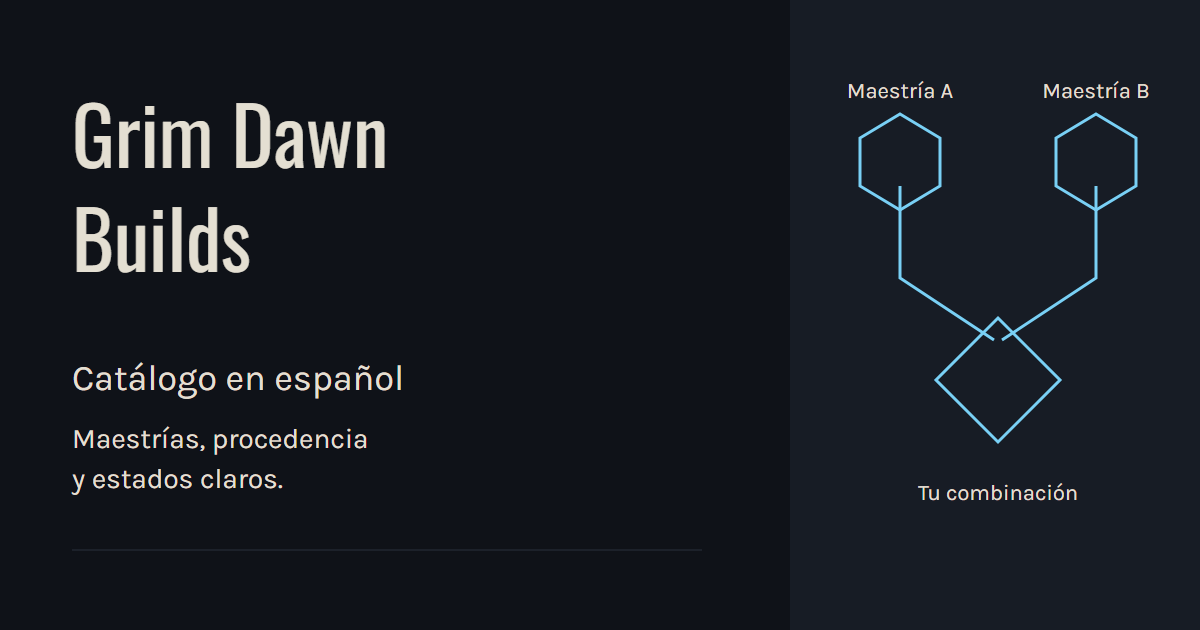
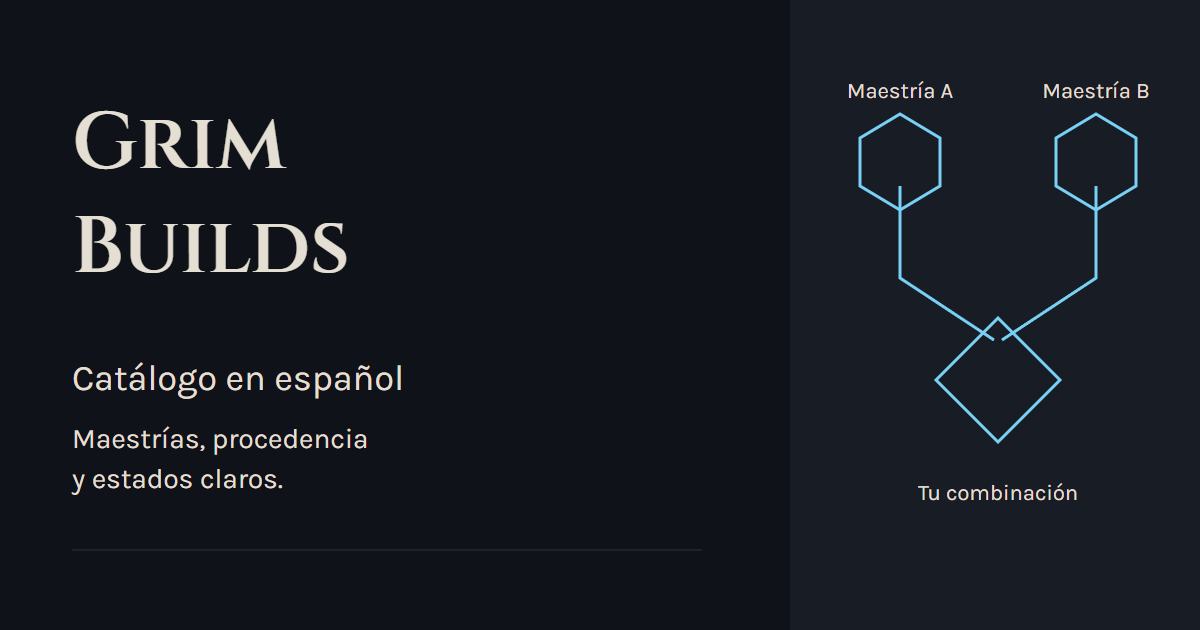
feat(web): rename the public brand to Grim Builds and state non-affiliation for spec 005 (T015)

Changed region(s): [[0.0617, 0.1508, 0.3392, 0.2714], [0.0617, 0.3317, 0.3083, 0.4524]]

diff --git a/apps/web/src/app/core/seo/seo.service.spec.ts b/apps/web/src/app/core/seo/seo.service.spec.ts
@@ -31,7 +31,7 @@ describe('SeoService', () => {
       path: '/tier-list?m=chaman#filters',
       structuredData: [webSite()],
     });
-    expect(doc.title).toBe('Catálogo · Grim Dawn Builds');
+    expect(doc.title).toBe('Catálogo · Grim Builds');
     expect(doc.querySelector('meta[name="description"]')?.getAttribute('content')).toBe(
       'Combinaciones con procedencia.',
     );
@@ -70,9 +70,9 @@ describe('SeoService', () => {
     expect(doc.querySelector('meta[name="twitter:card"]')?.getAttribute('content')).toBe(
       'summary_large_image',
     );
-    service.setPage({ title: 'Grim Dawn Builds', description: 'Portada.', path: '/' });
-    service.setPage({ title: 'Grim Dawn Builds', description: 'Portada.', path: '/' });
-    expect(doc.title).toBe('Grim Dawn Builds');
+    service.setPage({ title: 'Grim Builds', description: 'Portada.', path: '/' });
+    service.setPage({ title: 'Grim Builds', description: 'Portada.', path: '/' });
+    expect(doc.title).toBe('Grim Builds');
     expect(doc.querySelectorAll('meta[name="description"]')).toHaveLength(1);
     expect(doc.querySelectorAll('link[rel="canonical"]')).toHaveLength(1);
     expect(doc.querySelector('meta[property="og:type"]')?.getAttribute('content')).toBe('website');
@@ -90,7 +90,7 @@ describe('SeoService', () => {
       '630',
     );
     expect(doc.querySelector('meta[property="og:image:alt"]')?.getAttribute('content')).toContain(
-      'Grim Dawn Builds',
+      'Grim Builds',
     );
     expect(doc.querySelectorAll('meta[property="og:image"]')).toHaveLength(1);
     expect(doc.querySelector('meta[name="twitter:image"]')?.getAttribute('content')).toBe(
@@ -136,7 +136,7 @@ describe('SeoService', () => {
           structuredData: [record],
         }),
       ).toThrow();
-      expect(doc.title).toBe('Original · Grim Dawn Builds');
+      expect(doc.title).toBe('Original · Grim Builds');
     }
     const circular = webSite();
     circular['self'] = circular;
@@ -150,7 +150,7 @@ describe('SeoService', () => {
         }),
       ).toThrow(/estructurados/);
     }
-    expect(doc.title).toBe('Original · Grim Dawn Builds');
+    expect(doc.title).toBe('Original · Grim Builds');
   });
 
   it('does not create metadata from blank content or an external canonical route', () => {

diff --git a/apps/web/src/app/shared/ui/layout/site-layout.html b/apps/web/src/app/shared/ui/layout/site-layout.html
@@ -2,7 +2,7 @@
 
 <header class="site-header">
   <div class="page-width header-inner">
-    <a class="brand" routerLink="/" i18n="@@layout.brand">Grim Dawn <span>Builds</span></a>
+    <a class="brand" routerLink="/" i18n="@@layout.brand">Grim <span>Builds</span></a>
     <details>
       <summary i18n="@@layout.menu">Menu</summary>
       <nav aria-label="Main navigation" i18n-aria-label="@@layout.primaryNav">
@@ -48,7 +48,9 @@
 
 <footer class="site-footer">
   <div class="page-width footer-inner">
-    <p i18n="@@layout.independent">Independent project. Not affiliated with Crate Entertainment.</p>
+    <p i18n="@@layout.independent">
+      Independent project. Not affiliated with or endorsed by Crate Entertainment or Grim Dawn.
+    </p>
     <nav aria-label="Editorial and legal information" i18n-aria-label="@@layout.legalNav">
       <a routerLink="/acerca" i18n="@@layout.editorial">Editorial criteria</a>
       <a routerLink="/legal" i18n="@@layout.legal">Legal notice</a>

diff --git a/apps/web/src/app/shared/ui/layout/site-layout.spec.ts b/apps/web/src/app/shared/ui/layout/site-layout.spec.ts
@@ -43,8 +43,13 @@ describe('SiteLayout', () => {
     const fixture = TestBed.createComponent(HostFixture);
     await fixture.whenStable();
     const root: HTMLElement = fixture.nativeElement;
-    expect(root.querySelector('footer')?.textContent).toContain(
-      'Not affiliated with Crate Entertainment',
+    const notice = root.querySelectorAll('footer p');
+    expect(notice).toHaveLength(1);
+    expect(notice[0]!.textContent).toContain(
+      'Not affiliated with or endorsed by Crate Entertainment or Grim Dawn',
+    );
+    expect(root.querySelector('header .brand')?.textContent?.replace(/\s+/g, ' ').trim()).toBe(
+      'Grim Builds',
     );
     const hrefs = [...root.querySelectorAll('a')].map((link) => link.getAttribute('href'));
     for (const href of ['/', '/tier-list', '/acerca', '/legal']) expect(hrefs).toContain(href);

diff --git a/apps/web/src/app/shared/ui/build-card/build-card.spec.ts b/apps/web/src/app/shared/ui/build-card/build-card.spec.ts
@@ -19,7 +19,7 @@ const guide: BuildCardData = {
   status: 'sin_verificar',
   reviewState: 'publicado',
   damage: ['Fuego', 'Físico'],
-  author: 'Grim Dawn Builds',
+  author: 'Grim Builds',
   gameVersion: '1.3.x',
   href: ['/builds', 'chaman-demoledor-golpe-primigenio'],
   tierLabel: null,
@@ -92,8 +92,7 @@ describe('gd-build-card (spec004 T015)', () => {
 
   it('shows damage, author and game version in the standard variant', async () => {
     const text = (await render(guide)).textContent ?? '';
-    for (const part of ['Fuego', 'Físico', 'Grim Dawn Builds', '1.3.x'])
-      expect(text).toContain(part);
+    for (const part of ['Fuego', 'Físico', 'Grim Builds', '1.3.x']) expect(text).toContain(part);
   });
 
   it('a placeholder has no link, says "No guide" and never shows a tier or a recommendation', async () => {

diff --git a/apps/web/src/app/features/home/home.page.ts b/apps/web/src/app/features/home/home.page.ts
@@ -42,14 +42,14 @@ export class HomePage {
     if (!this.catalog) throw new Error('Falta el catálogo prerenderizado.');
     const seo = inject(SeoService);
     seo.setPage({
-      title: 'Grim Dawn Builds',
+      title: 'Grim Builds',
       description: $localize`:@@home.description:Browse Grim Dawn mastery combinations, with visible provenance and review statuses.`,
       path: '/',
       structuredData: [
         {
           '@context': 'https://schema.org',
           '@type': 'WebSite',
-          name: 'Grim Dawn Builds',
+          name: 'Grim Builds',
           url: seo.canonical('/'),
           inLanguage: siteLocale(inject(LOCALE_ID)) === 'es' ? 'es-419' : 'en',
         },

diff --git a/apps/web/src/app/features/static-pages/legal.page.ts b/apps/web/src/app/features/static-pages/legal.page.ts
@@ -2,7 +2,7 @@ import { ChangeDetectionStrategy, Component, inject } from '@angular/core';
 import { SeoService } from '../../core/seo/seo.service';
 
 const TITLE = $localize`:@@legal.title:Legal notice`;
-const DESCRIPTION = $localize`:@@legal.description:Ownership, attribution, assets, content takedown and privacy for the Grim Dawn Builds project.`;
+const DESCRIPTION = $localize`:@@legal.description:Ownership, attribution, assets, content takedown and privacy for the Grim Builds project.`;
 
 /**
  * Static legal notice. Every statement is traceable to README.md, CONTRIBUTING.md,

diff --git a/apps/web/src/app/features/author/author.page.spec.ts b/apps/web/src/app/features/author/author.page.spec.ts
@@ -30,7 +30,7 @@ describe('author profile page', () => {
     });
     await f.whenStable();
     expect(f.nativeElement.querySelector('h1').textContent).toBe('Proyecto');
-    expect(document.title).toBe('Profile of Proyecto · Grim Dawn Builds');
+    expect(document.title).toBe('Profile of Proyecto · Grim Builds');
     expect(f.nativeElement.textContent).toContain('<img src=x onerror=fail()>');
     expect(f.nativeElement.querySelector('img')).toBeNull();
     expect(f.nativeElement.textContent).toContain('does not have any published guides yet');

diff --git a/apps/web/src/app/core/seo/seo.service.ts b/apps/web/src/app/core/seo/seo.service.ts
@@ -19,10 +19,10 @@ export interface SeoPage {
   image?: { path: string; alt: string; width: number; height: number };
   structuredData?: readonly JsonLdRecord[];
 }
-const SITE_NAME = 'Grim Dawn Builds';
+const SITE_NAME = 'Grim Builds';
 const DEFAULT_SOCIAL_IMAGE = {
   path: '/og/site.png',
-  alt: $localize`:@@seo.socialAlt:Grim Dawn Builds: English-language catalog, masteries and clear statuses.`,
+  alt: $localize`:@@seo.socialAlt:Grim Builds: English-language catalog, masteries and clear statuses.`,
   width: 1200,
   height: 630,
 };

diff --git a/apps/web/src/app/features/static-pages/about.page.html b/apps/web/src/app/features/static-pages/about.page.html
@@ -1,7 +1,7 @@
 <h1 i18n="@@about.title">About the project</h1>
 <p i18n="@@about.purpose">
-  Grim Dawn Builds is an independent project for browsing mastery combinations and guides with
-  visible provenance. It is not affiliated with Crate Entertainment.
+  Grim Builds is an independent project for browsing mastery combinations and guides with visible
+  provenance. It is not affiliated with Crate Entertainment.
 </p>
 <section aria-labelledby="about-states">
   <h2 id="about-states" i18n="@@about.states">What the statuses mean</h2>

diff --git a/apps/web/src/app/features/static-pages/legal.page.spec.ts b/apps/web/src/app/features/static-pages/legal.page.spec.ts
@@ -97,7 +97,7 @@ describe('legal notice page', () => {
   it('publishes WebPage structured data with a canonical URL and description', () => {
     render();
 
-    expect(document.title).toBe('Legal notice · Grim Dawn Builds');
+    expect(document.title).toBe('Legal notice · Grim Builds');
     expect(document.querySelector('link[rel="canonical"]')?.getAttribute('href')).toBe(CANONICAL);
     expect(
       document.querySelector('meta[name="description"]')?.getAttribute('content')?.length ?? 0,

diff --git a/apps/web/src/app/features/static-pages/about.page.ts b/apps/web/src/app/features/static-pages/about.page.ts
@@ -17,7 +17,7 @@ export class AboutPage {
     const seo = inject(SeoService);
     seo.setPage({
       title: $localize`:@@about.title:About the project`,
-      description: $localize`:@@about.description:Editorial criteria, attribution and content statuses for Grim Dawn Builds.`,
+      description: $localize`:@@about.description:Editorial criteria, attribution and content statuses for Grim Builds.`,
       path: '/acerca',
       structuredData: [
         {

diff --git a/apps/web/src/app/features/masteries/mastery.page.spec.ts b/apps/web/src/app/features/masteries/mastery.page.spec.ts
@@ -75,7 +75,7 @@ describe('mastery page', () => {
       const fixture = create(tree, locale);
       await fixture.whenStable();
       expect(document.title).toContain(name);
-      expect(document.title).toContain('Grim Dawn Builds');
+      expect(document.title).toContain('Grim Builds');
       expect(
         document.head.querySelector('meta[name="description"]')?.getAttribute('content'),
       ).toContain(name);
